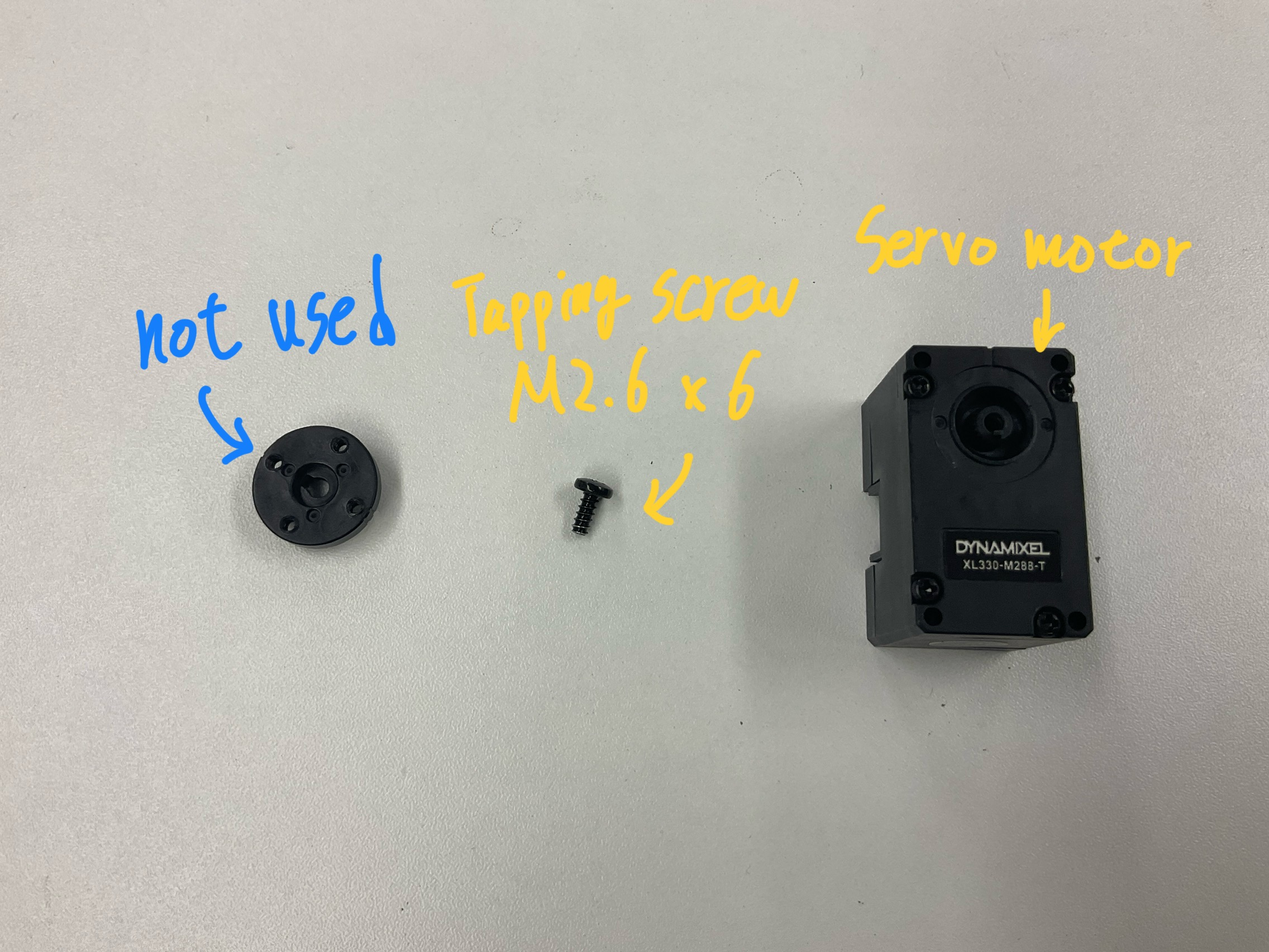
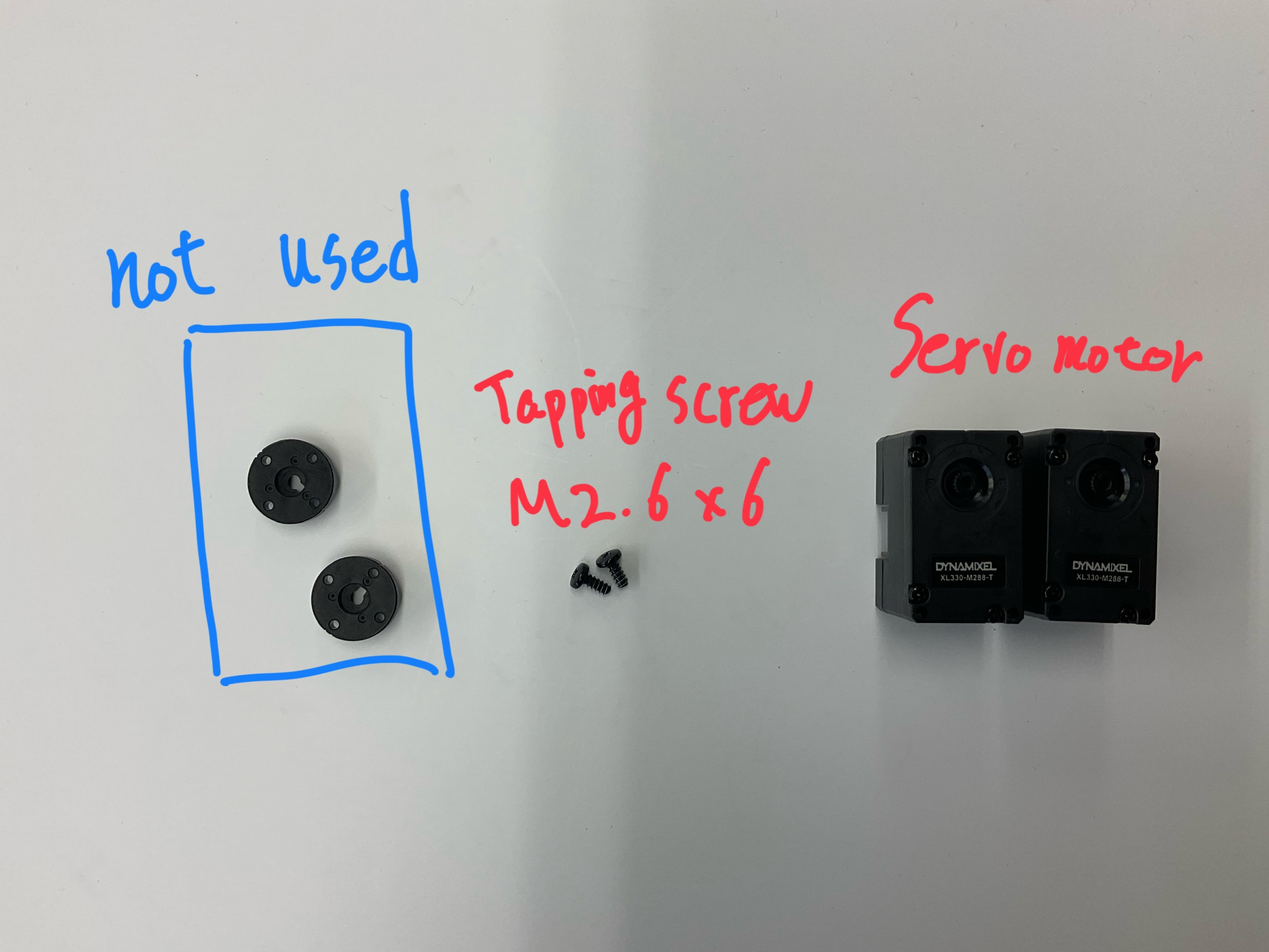
文章の不足している点やわからない点を修正

diff --git a/docs/assembly_ja.md b/docs/assembly_ja.md
@@ -1,29 +1,36 @@
 # ｽﾀｯｸﾁｬﾝ アールティver. 組み立てマニュアル
 
-ｽﾀｯｸﾁｬﾝ アールティver.は部品の凹凸部のはめ合いで固定するスナップフィットで組み立てられます。
+ｽﾀｯｸﾁｬﾝ アールティver.で使用するネジは6本で、それ部品の凹凸部のはめ合いで固定するスナップフィットで組み立てます。
 
 ## パーツ一覧
 
 ｽﾀｯｸﾁｬﾝの組み立てには以下のパーツを使用します。
 
-- サーボモータ１
-- サーボモータ２
-- サーボブラケット(前)
-- サーボブラケット(後)
-- 足(上)
-- 足(下)
-- バッテリーパック(外)
-- バッテリーパック(内)
-- バッテリー(1セル 450mAh)
-- サーボホーン
-- シェル
-- 基板
-- M5Stack CoreS3
-- TTLケーブル 2本
-- タップネジ(M2) 4本
-- 六角穴付きネジ(M3) 4本
+1. M5Stack CoreS3
+2. 基板
+3. シェル
+4. バッテリーパック(内)
+5. バッテリーパック(外)
+6. バッテリー(1セル 450mAh)
+7. 足(上)
+8. 足(下)
+9. サーボブラケット(後)
+10. サーボブラケット(前)
+11. サーボモータ１
+12. サーボモータ２
+13. サーボホーン
+14. TTLケーブル
+15. タップネジ(M2x5) 4本
+16. 六角穴付きネジ(M3x14) 2本
+17. 六角穴付きネジ(M3x12) 2本
 
-![](images/assembly/all_parts.png)
+![](images/assembly/all_parts.jpg)
+
+## 使用工具一覧
+
+- プラスドライバー
+- マイナスドラバー
+- 六角レンチ(M2)
 
 ## 組み立て
 
@@ -33,15 +40,15 @@
 
 サーボモータ１とサーボモータ２に取り付けられたタップネジ(M2.6x6)を取り外します。
 
-![](images/assembly/disassembling_screw.JPG)
-
-取り外した2本のネジは、この後に使用するので取っておいてください。画像左側のパーツはｽﾀｯｸﾁｬﾝ アールティver.では使用しません。
-
-![](images/assembly/disassembling_servo.JPG)
-
 サーボモータ１：青色のシールが貼られたサーボモータ
 サーボモータ２：緑色のシールが貼られたサーボモータ
 
+
+![](images/assembly/disassembling_screw.JPG)
+
+取り外した2本のネジは、この後に使用するので取っておいてください。画像左側のパーツ（『not used』と書かれたパーツ）はｽﾀｯｸﾁｬﾝ アールティver.では使用しません。
+
+![](images/assembly/disassembling_servo.JPG)
 
 ### 胴体の組み立て
 
@@ -51,17 +58,13 @@
 
 ![servo_wired](images/assembly/servo_wired.JPG)
 
-
-胴体となる部分にはサーボモータ１とサーボモータ２を固定します。ケーブルを挟まないように注意しつつ、サーボブラケット(前)とサーボブラケット(後)で挟み込みます。
+胴体となる部分はサーボモータ１とサーボモータ２をサーボプラケットで固定します。ケーブルを挟まないように注意しつつ、サーボブラケット(前)とサーボブラケット(後)で挟み込みます。
 この際、サーボに「DYNAMIXEL XL330-M288-T」と書いてあるラベルが矢印方向に向くようにしてください。
 
-<p>
-    <img src="images/assembly/servo_protrusion_focus.JPG" width="35%"> <img src="images/assembly/feet_cutout.JPG" width="60%">
-</p>
 
 ![born_prev](images/assembly/born_purge.JPG)
 
-挟んで固定してください。
+2つのサーボモータをサーボブラケットで挟んで固定します。
 
 ![born](images/assembly/born_base.JPG)
 
@@ -71,6 +74,10 @@
 胴体にｽﾀｯｸﾁｬﾝの足を取り付けます。
 
 サーボモータ１の突起と足(上)の接合部の切り欠きの位置を合わせてグッと押して固定してください。
+
+<p>
+    <img src="images/assembly/servo_protrusion_focus.JPG" width="35%"> <img src="images/assembly/feet_cutout.JPG" width="60%">
+</p>
 
 ![](images/assembly/servo_and_feet_protrusions.JPG)
 
@@ -82,11 +89,13 @@
 
 ![](images/assembly/feet_bottom_assembled.JPG)
 
-[外し方]
-
 足を取り付けると以下の画像のようになります。
 
 ![](images/assembly/born_feet.JPG)
+
+足(上)に取り付けた足(下)は4箇所の窪みから取り外すことができます。1箇所ずつ、マイナスドライバーを窪みに差し込み、足(上)のフチを支点としたテコの原理で固定を外します。。
+
+![](images/assembly/disassembling_feet.JPG)
 
 ### サーボホーンの取り付け
 
@@ -104,7 +113,7 @@
 
 バッテリーパックを取り付けます。
 
-バッテリーのコードを挟まないように気をつけてバッテリーパック(内)の窪みに入れます。
+バッテリーをバッテリーパック(内)の窪みに入れます。パッテリーのコードはスリットを通して外に出してください。
 
 ![](images/assembly/battery_into_backpack.JPG)
 
@@ -114,11 +123,11 @@
     <img src="images/assembly/backpack_opening.JPG" width="50%"><img src="images/assembly/backpack_assembled.JPG" width="50%">
 </p>
 
-バッテリーパック(内)から出ている突起をサーボブラケット(外)に引っ掛けて固定します。
+バッテリーパック(内)から出ている突起をサーボブラケット(後)に引っ掛けて固定します。
 
 ![](images/assembly/born_backpackd.JPG)
 
-サーボブラケット(外)とバッテリーパック(内)の突起の位置を合わせて矢印方向にスライドし、引っ掛かけて固定してください。
+位置を合わせたら矢印方向にスライドしてください。
 
 <p>
     <img src="images/assembly/born_backpack_attaching.JPG" width="50%"><img src="images/assembly/born_backpack_sliding.JPG" width="50%">
@@ -131,7 +140,7 @@
 
 ｽﾀｯｸﾁｬﾝの外装となるシェルを取り付けます。
 
-シェルの天板内側にある突起とサーボホーンを取り付けます。
+シェルの天板内側にある突起とサーボホーンを取り付けます。バッテリーのコードとサーボモータのTTLケーブルを前に持ってきなからスライドして入れてください。
 
 ![](images/assembly/born_shell.JPG)
 
@@ -145,14 +154,16 @@
 
 ### 基板の取り付け
 
-サーボモータのケーブルとバッテリーのケーブルを基板の指定した端子につなげます。
+サーボモータに取り付けたTTLケーブルとバッテリーのケーブルを基板の指定した端子につなげます。
 
 <span style="font-size: 120%; color: red;">バッテリー端子の向きに気をつけてください。間違えると故障の原因となります。</span>
 
 ![](images/assembly/cable_connecting.JPG)
 
+画像の通り、基板に取り付けられた青と黒のコネクタが上になるように基板とシェルの穴の位置を合わせてネジ（M2タップネジ）を4つ締めて固定します。スライドスイッチが基板から突出しているため、シェルの側面にある穴に斜めに入れてネジの位置を合わせます。
 
-基板とシェルの穴の位置を合わせてネジ（M2タップネジ）を4つ締めます。ネジはシェルの小さい穴に対して取り付けてください。
+
+<span style="font-size: 120%; color: red;">ネジが導体（銀色の箇所）には触れないように注意してください。バッテリの端子が接続されているためショートする恐れがあります。</span>
 
 <p>
     <img src="images/assembly/board_shell_attaching.JPG" width="50%"><img src="images/assembly/board_shell_assembling.JPG" width="50%">
@@ -175,9 +186,9 @@ M5Stack CoreS3を基板に対してピンの位置をわせてグッと押し込
 
 ### 【オプション】M5Stack CoreS3の固定
 
-M5Stack CoreS3をしっかり固定したい場合は、キットに付属している4本の六角穴付きネジ（六角ネジ）で固定してください。
+M5Stack CoreS3をしっかり固定したい場合は、キットに付属している4本の六角穴付きネジ（六角ネジ）で固定します。ネジの長さは２種類あるため注意してください。
 
-ネジの長さは２種類あります。バッテリーパックを外し、短いほうの六角ネジ2本をｽﾀｯｸﾁｬﾝの上側に、長いほうの六角ネジ2本を下側に取り付けます。4本のネジを締め終えたらバッテリーパックを再度取り付けます。
+バッテリーパックをサーボブラケット(後)から取り外し、バッテリーの端子も基板から外します。短いほうの六角ネジ2本をｽﾀｯｸﾁｬﾝの上側に、長いほうの六角ネジ2本を下側に取り付けます。4本のネジを締め終えたらバッテリーパックを再度取り付けます。
 
 ![](images/assembly/back_screws.JPG)
 
